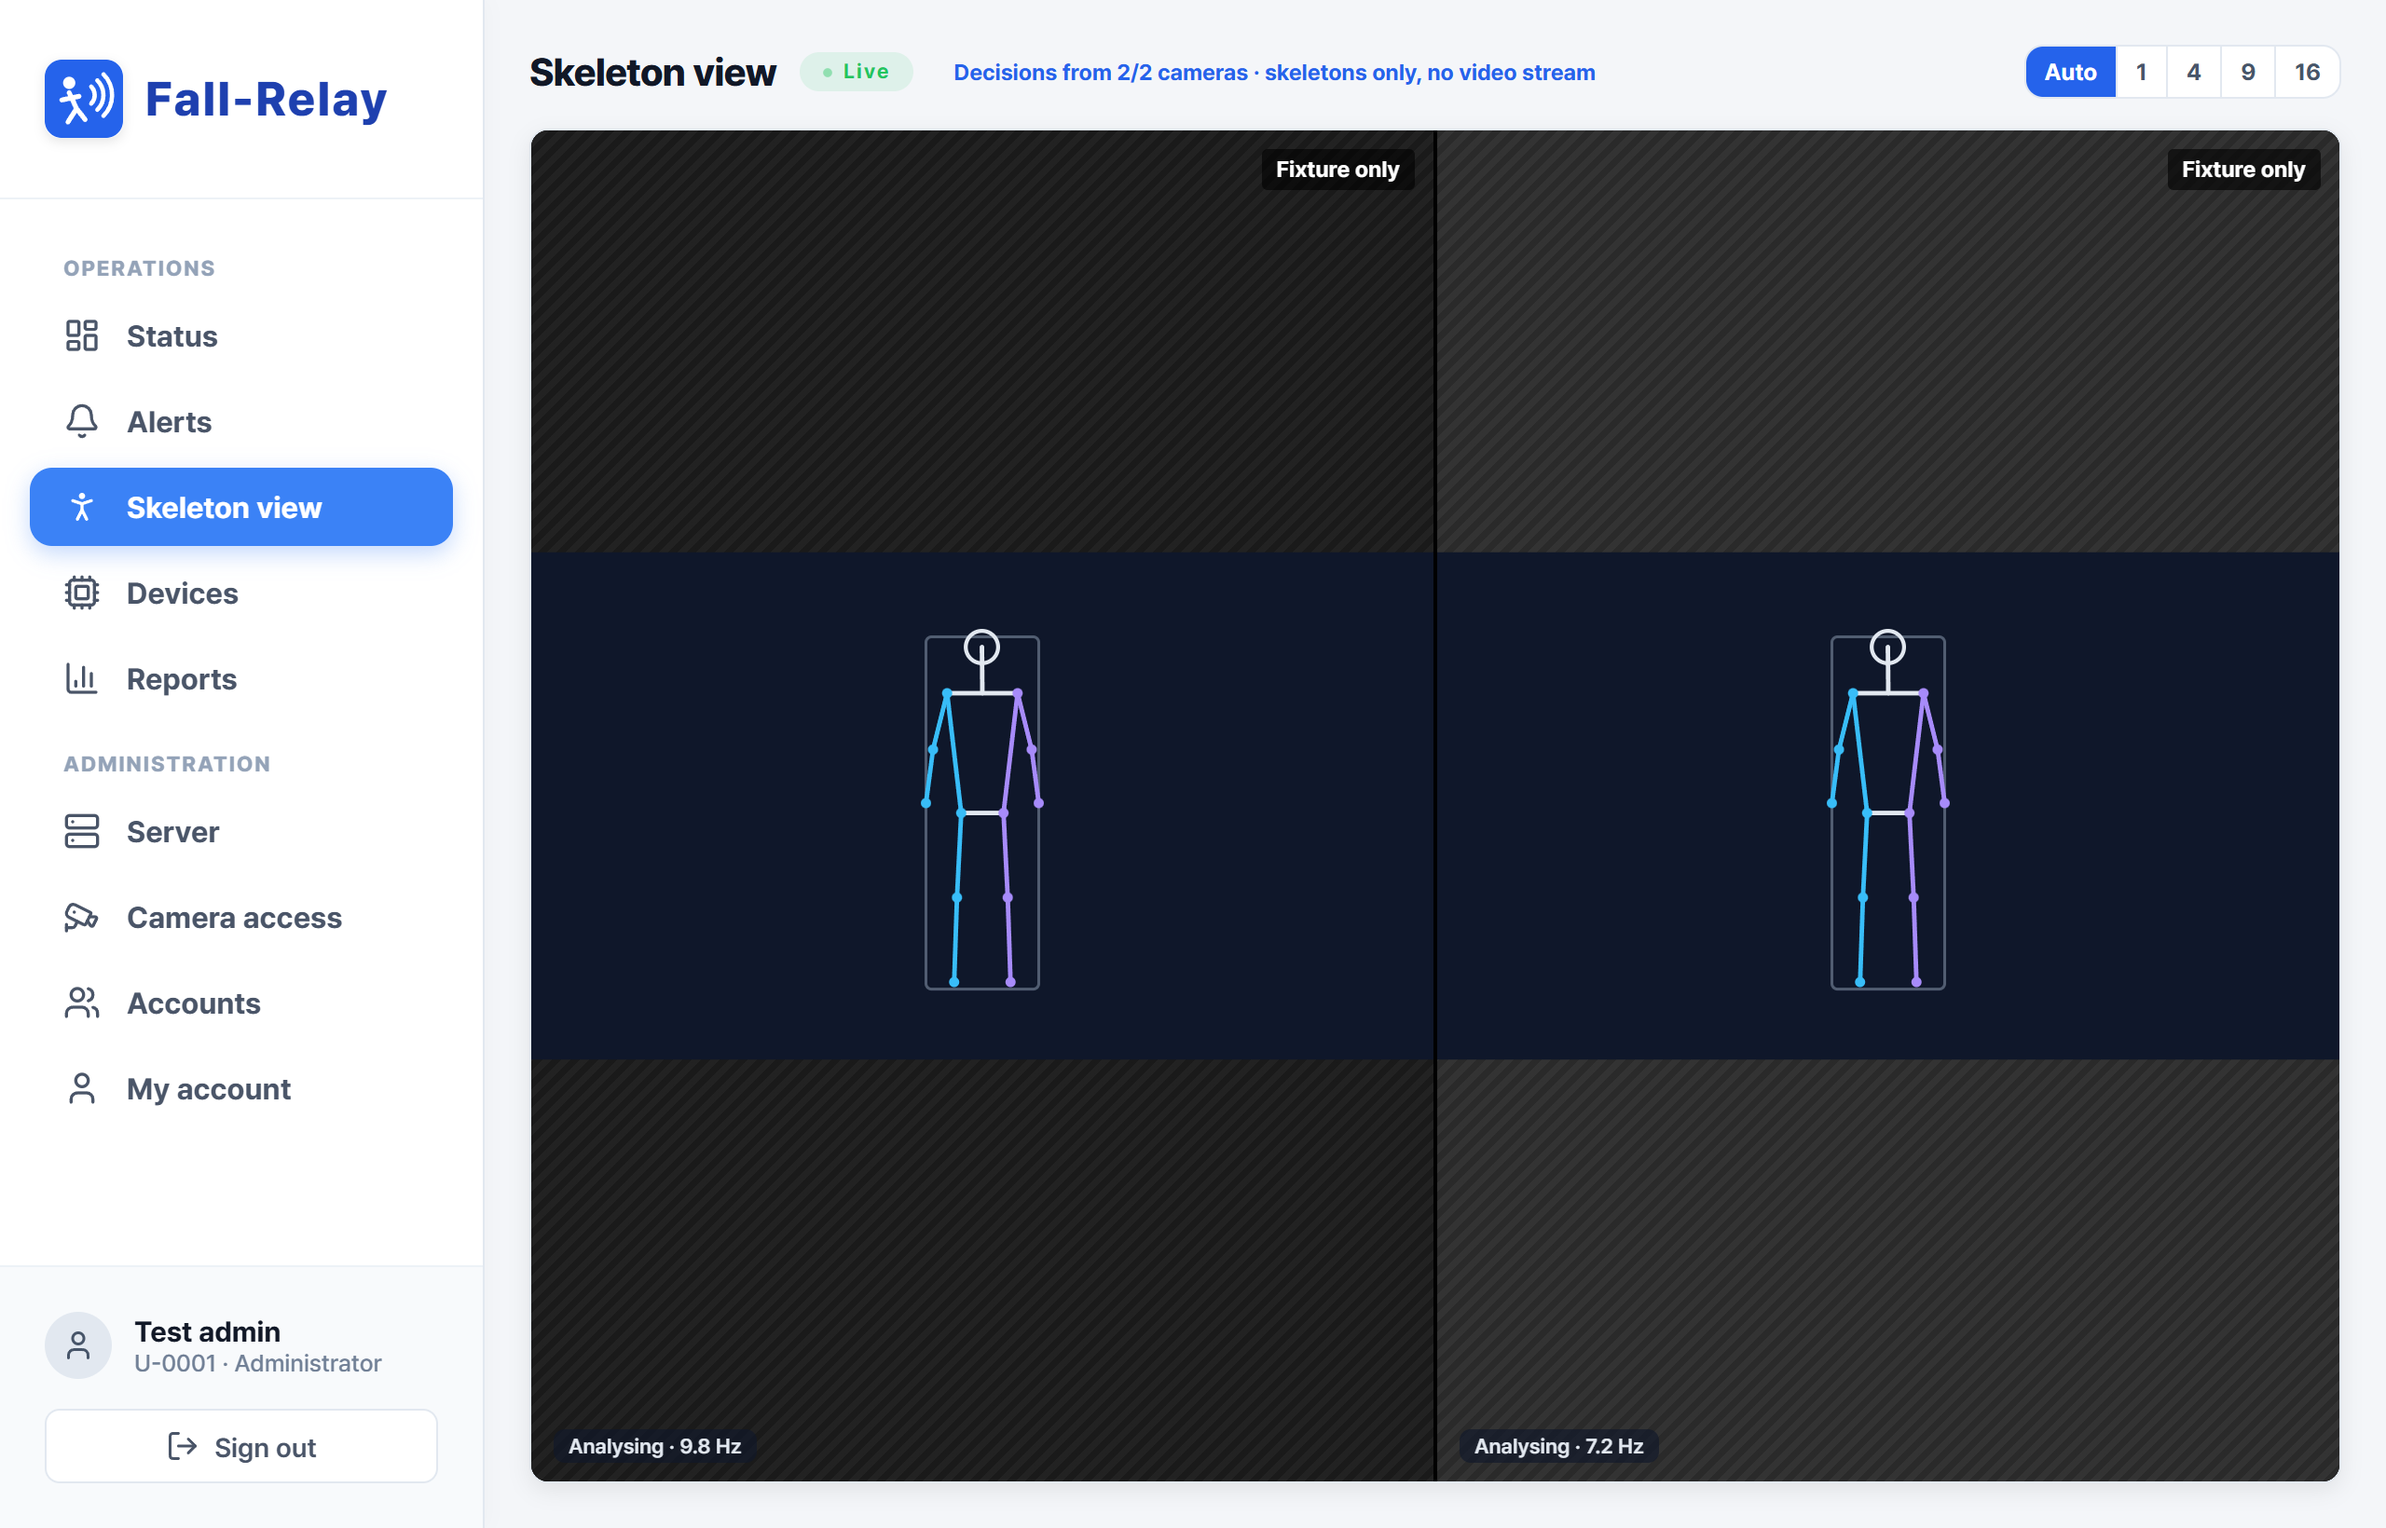
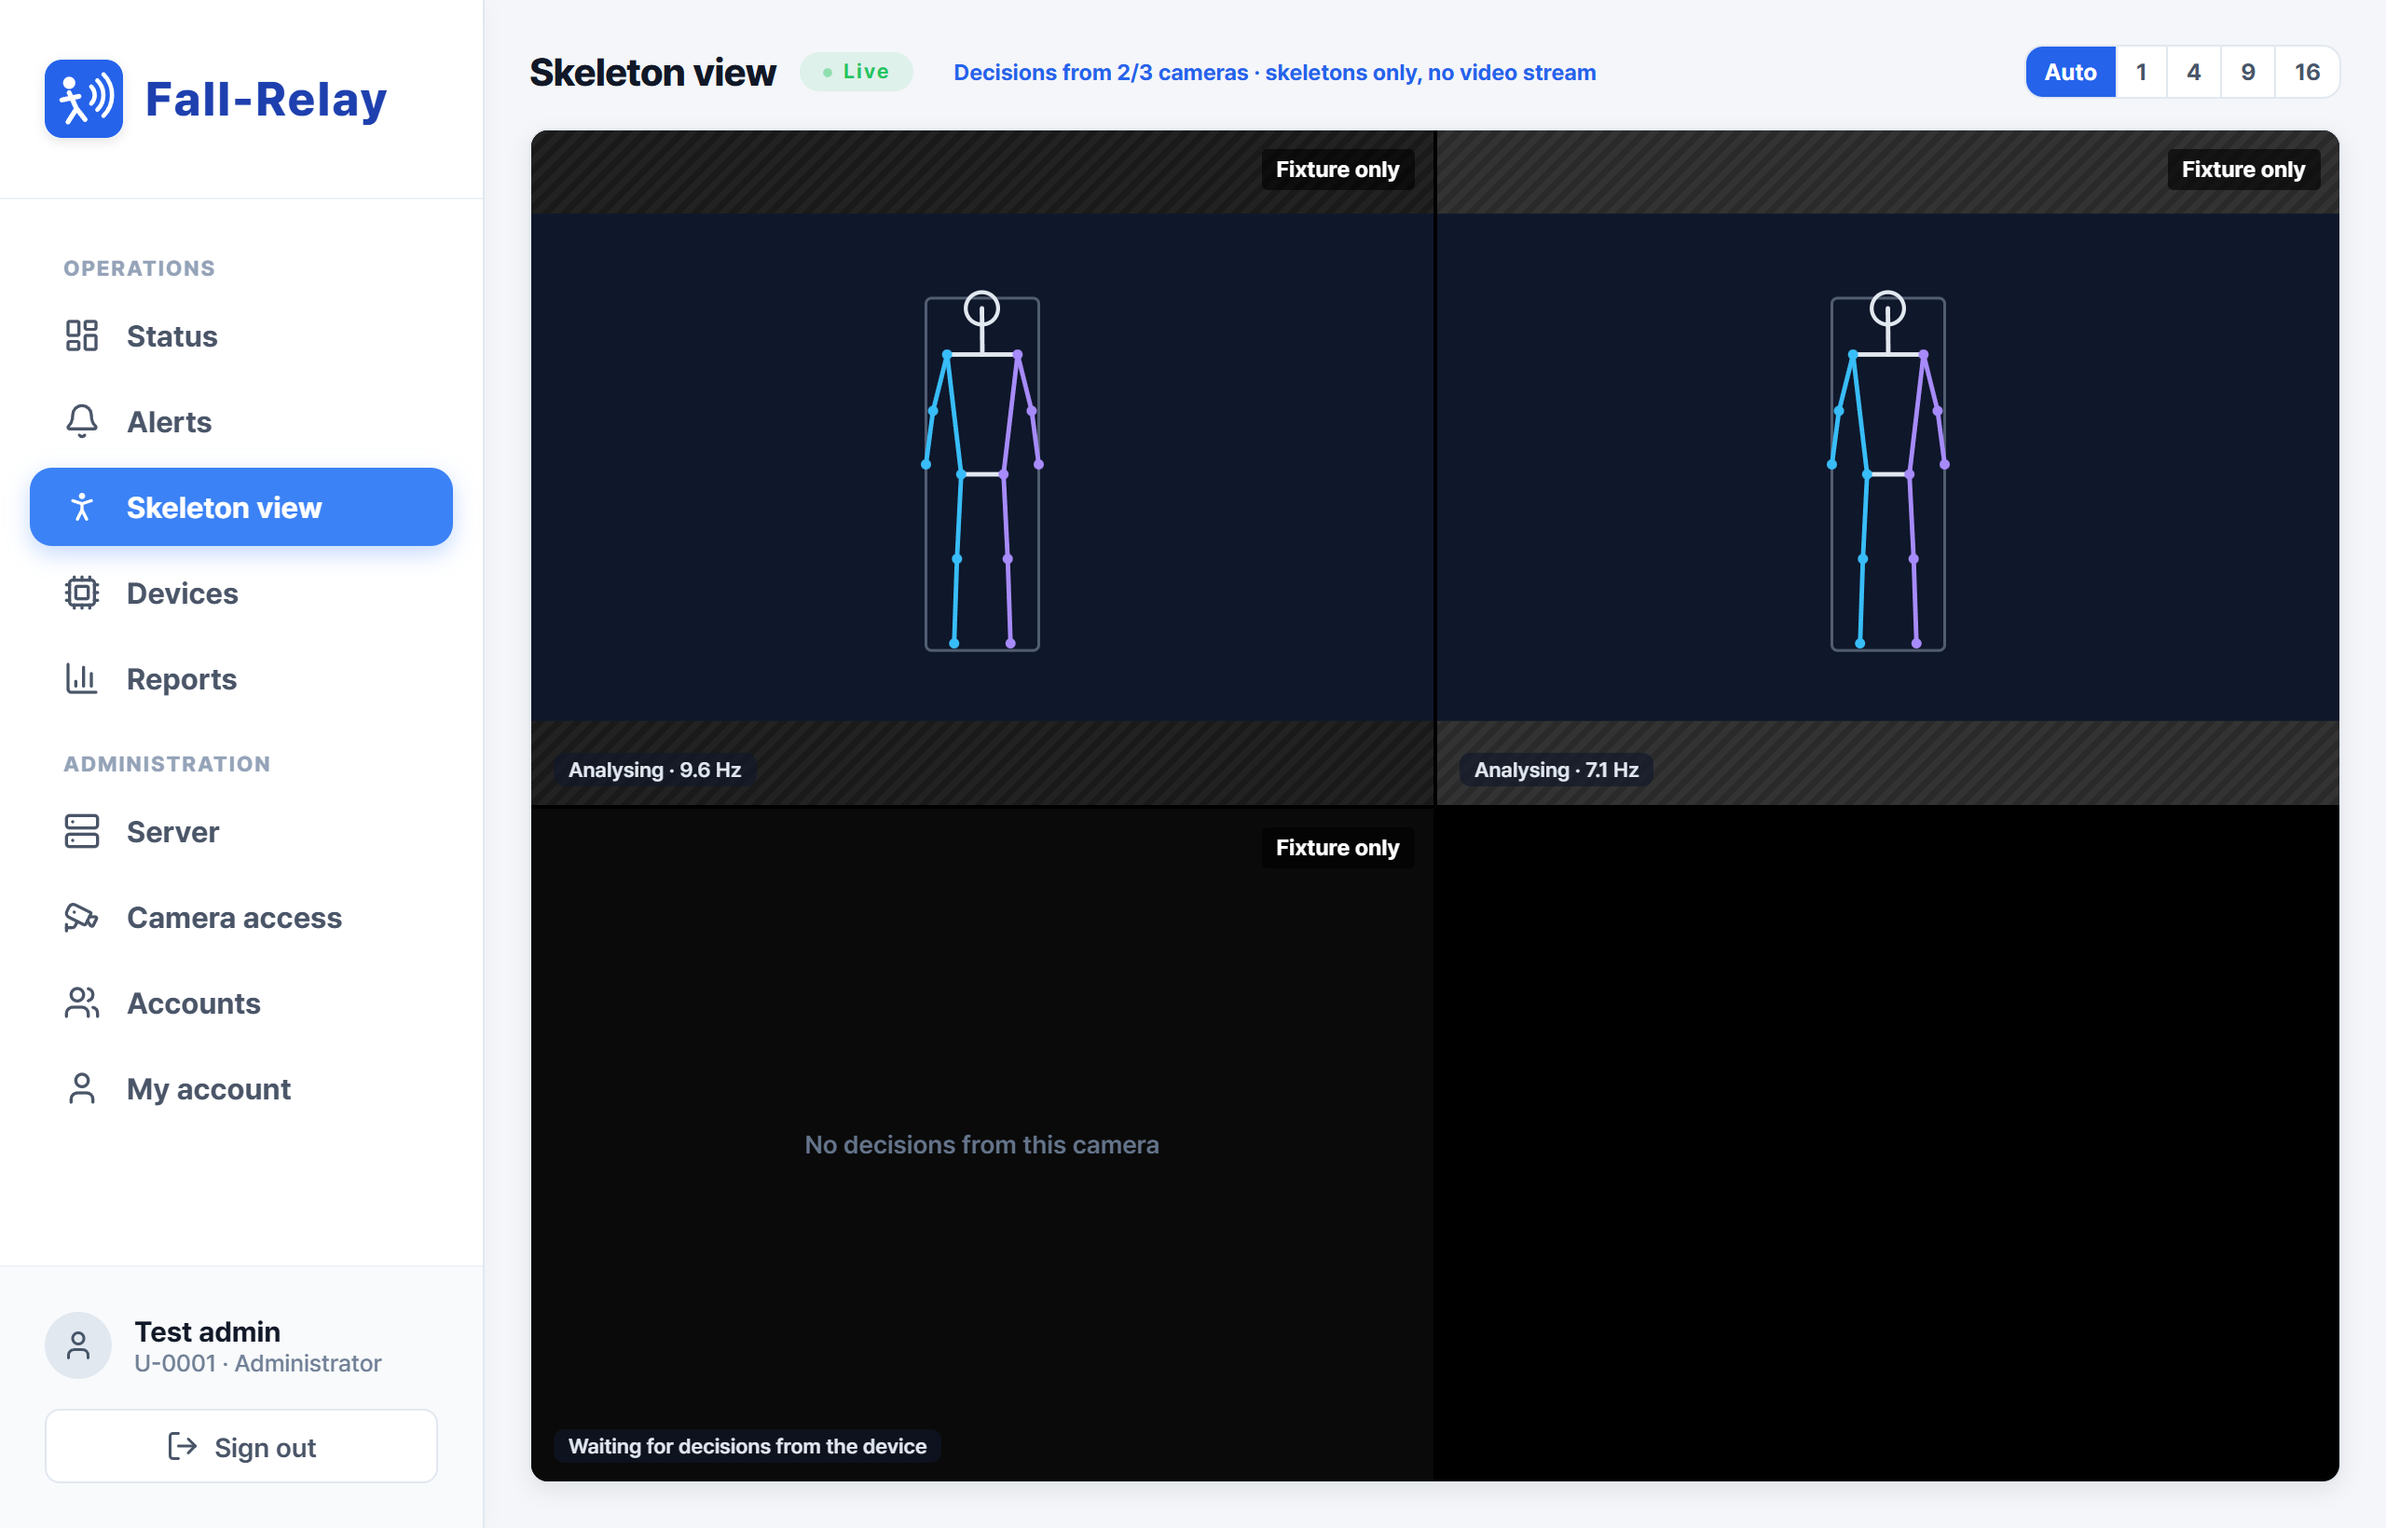
Screens: recapture all four pages from one v1.0.2 run; the Alerts page shows a manual-review and a resolved alert

diff --git a/docs/screens/README.md b/docs/screens/README.md
@@ -2,12 +2,14 @@
 
 Captures of the web application running the hardware-free example (`server/bridge/demo.py --serve` with
 `verify_web_demo.py --serve`), 1280 x 820 CSS pixels at 2x. All values, alerts, devices and the clip come from the
-synthetic fixture; no real person or camera image is shown. These are the readable originals of Fig. 4 of the
-article.
+synthetic fixture; no real person or camera image is shown. These are the readable originals of Fig. 5 of the
+article, captured from one v1.0.2 run. The manual-review alert comes from `edge/examples/any_detector_adapter.py`
+run once against an unreachable server and then against the demo bridge (camera 3 added by the administrator
+API): the queued event arrives without a usable clock calibration, so the bridge classifies it for manual review.
 
 | File | Screen |
 |---|---|
 | `skeleton_view.png` | Skeleton view: the 13-joint skeletons the two synthetic cameras send (no video stream) |
-| `alerts_resolved.png` | Alerts: a resolved fall alert with its clip and handling timeline |
+| `alerts.png` | Alerts: a manual-review alert (camera 3) and a resolved live fall alert with its clip and handling timeline (camera 1) |
 | `device_detail.png` | Device detail: health judged against the device profile (decision rate below the design rate) |
 | `reports.png` | Reports: alerts, acknowledgement time and outcomes over a period |
